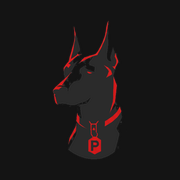
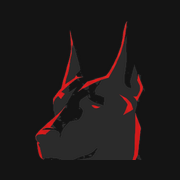
Pies w pasku nawigacyjnym, powrot do czystej strony glownej
- header: kadr glowy psa (pakt-head) + napis; pelna sylwetka jest zbyt waska
  w skali paska, glowa czyta sie poprawnie
- favicon i apple-icon tez z kadru glowy
- stopka bez zmian: pelna sylwetka + napis
- strona glowna wraca do minimalnej wersji, produkty dopiero w kolekcji

diff --git a/app/page.tsx b/app/page.tsx
@@ -1,151 +1,21 @@
-import Image from "next/image";
-import Link from "next/link";
-import { getProducts } from "@/lib/data";
 import { Button } from "@/components/ui/Button";
-import { NetflixRow } from "@/components/collection/NetflixRow";
-import { QuickViewProvider } from "@/components/collection/QuickViewModal";
-import { ReturnIcon, ShieldIcon, TruckIcon } from "@/components/ui/icons";
 
-const CATEGORIES = [
-  {
-    title: "Robocze",
-    copy: "Szerokie taśmy, wzmocnione okucia, miejsce na panel ID.",
-    image: "/placeholder/ranger-duty-collar-1.svg",
-  },
-  {
-    title: "Na co dzień",
-    copy: "Lżejsze konstrukcje na spacery i szkolenie podstawowe.",
-    image: "/placeholder/fjord-everyday-collar-1.svg",
-  },
-  {
-    title: "Pod e-obrożę",
-    copy: "Taśmy przygotowane pod moduły do 45 mm.",
-    image: "/placeholder/bolt-e-fit-collar-1.svg",
-  },
-];
-
-const PROMISES = [
-  {
-    Icon: ShieldIcon,
-    title: "2 lata gwarancji",
-    copy: "Na taśmy, szwy i okucia. Zgłoszenie przez formularz, bez odsyłania do producenta.",
-  },
-  {
-    Icon: TruckIcon,
-    title: "Wysyłka w 24 h",
-    copy: "Zamówienia złożone w dni robocze do 14:00 pakujemy tego samego dnia.",
-  },
-  {
-    Icon: ReturnIcon,
-    title: "60 dni na zwrot",
-    copy: "Obroża nie pasuje na psa? Odsyłasz na nasz koszt i dobieramy rozmiar.",
-  },
-];
-
-export default async function Home() {
-  const products = await getProducts("collars");
-  const bestsellers = products
-    .filter((p) => p.bestsellerRank != null)
-    .sort((a, b) => (a.bestsellerRank ?? 99) - (b.bestsellerRank ?? 99))
-    .slice(0, 10);
-
+// Strona główna celowo minimalna: produkty pokazujemy dopiero w kolekcji.
+export default function Home() {
   return (
-    <QuickViewProvider>
-      <section className="relative -mt-16 h-[78svh] min-h-[520px] max-h-[860px] overflow-hidden lg:-mt-[72px]">
-        {/* Header czyta ten znacznik, żeby startować przezroczysty nad hero */}
-        <span data-hero-sentinel aria-hidden="true" className="absolute top-0 h-px w-px" />
-        <Image
-          src="/placeholder/hero-collars.svg"
-          alt=""
-          fill
-          priority
-          sizes="100vw"
-          className="object-cover"
-        />
-        <div aria-hidden="true" className="pointer-events-none absolute inset-0 scrim-bottom" />
-        <div aria-hidden="true" className="pointer-events-none absolute inset-0 scrim-left" />
-
-        <div className="absolute inset-x-0 bottom-12 md:bottom-20">
-          <div className="mx-auto max-w-[1600px] px-4 md:px-6">
-            <div className="max-w-2xl space-y-5">
-              <p className="text-xs font-semibold uppercase tracking-[0.35em] text-nf-red-bright">
-                Sprzęt dla psów pracujących
-              </p>
-              <h1
-                className="font-display font-black uppercase leading-[0.95] tracking-tight text-white"
-                style={{ fontSize: "clamp(2.5rem, 7vw, 5.5rem)" }}
-              >
-                Obroże, które
-                <br />
-                wracają z terenu
-              </h1>
-              <p className="max-w-xl text-base text-nf-text/90 md:text-lg">
-                Taśmy 1000D, okucia ze stopu cynku, szycie w Polsce. Ten sam sprzęt
-                noszą psy służbowe i psy, które wychodzą na spacer dwa razy dziennie.
-              </p>
-              <div className="flex flex-wrap gap-3 pt-1">
-                <Button size="lg" href="/collections/collars">
-                  Zobacz obroże
-                </Button>
-                <Button size="lg" variant="ghost" href="/collections/collars#top-ten">
-                  Bestsellery
-                </Button>
-              </div>
-            </div>
-          </div>
-        </div>
-      </section>
-
-      <section aria-label="Kategorie" className="mx-auto max-w-[1600px] px-4 py-16 md:px-6 lg:py-20">
-        <div className="grid gap-4 md:grid-cols-3 md:gap-6">
-          {CATEGORIES.map((cat) => (
-            <Link
-              key={cat.title}
-              href="/collections/collars"
-              className="group relative block overflow-hidden rounded-md border border-nf-border bg-nf-elevated"
-            >
-              <div className="relative aspect-[16/10] overflow-hidden">
-                <Image
-                  src={cat.image}
-                  alt=""
-                  fill
-                  sizes="(min-width:768px) 33vw, 100vw"
-                  className="object-cover transition-transform duration-300 ease-nf motion-safe:group-hover:scale-[1.04]"
-                />
-                <div aria-hidden="true" className="absolute inset-0 scrim-bottom" />
-              </div>
-              <div className="absolute inset-x-0 bottom-0 p-5">
-                <h2 className="font-display text-xl font-bold tracking-tight text-white">
-                  {cat.title}
-                </h2>
-                <p className="mt-1 max-w-xs text-sm text-nf-muted">{cat.copy}</p>
-              </div>
-            </Link>
-          ))}
-        </div>
-      </section>
-
-      <NetflixRow
-        id="bestsellery"
-        title="Najczęściej kupowane"
-        products={bestsellers}
-        exploreHref="/collections/collars"
-      />
-
-      <section
-        aria-label="Nasze zasady"
-        className="mx-auto max-w-[1600px] px-4 py-16 md:px-6 lg:py-24"
-      >
-        <div className="grid gap-10 border-t border-nf-border pt-12 md:grid-cols-3 md:gap-8">
-          {PROMISES.map(({ Icon, title, copy }) => (
-            <div key={title} className="space-y-3">
-              <Icon width={24} height={24} className="text-nf-red-bright" />
-              <h2 className="font-display text-lg font-bold tracking-tight text-white">{title}</h2>
-              <p className="max-w-sm text-sm leading-relaxed text-nf-muted">{copy}</p>
-            </div>
-          ))}
-        </div>
-      </section>
-    </QuickViewProvider>
+    <section className="flex min-h-[70svh] flex-col items-center justify-center gap-6 px-6 text-center">
+      <p className="text-xs font-semibold uppercase tracking-[0.35em] text-nf-red-bright">
+        Sprzęt dla psów pracujących
+      </p>
+      <h1 className="font-display text-4xl font-black uppercase leading-none tracking-tight text-white sm:text-6xl">
+        Dla psów,
+        <br />
+        które pracują
+      </h1>
+      <p className="max-w-md text-nf-muted">Kolekcja obroży jest już dostępna.</p>
+      <Button href="/collections/collars" size="lg">
+        Zobacz obroże
+      </Button>
+    </section>
   );
 }

diff --git a/components/layout/Logo.tsx b/components/layout/Logo.tsx
@@ -5,49 +5,58 @@ import { cn } from "@/lib/utils";
 
 // Assety wycinane z brand/logo.png przez scripts/gen-brand.mjs.
 // Wariant "-dark": czarna sylwetka psa podniesiona do grafitu, żeby nie znikała na czerni.
-const MARK = "/brand/pakt-mark.png";
-const MARK_DARK = "/brand/pakt-mark-dark.png";
+const ASSETS = {
+  // pełna sylwetka (głowa + popiersie z zawieszką) - tam, gdzie jest miejsce: stopka
+  mark: { src: "/brand/pakt-mark.png", dark: "/brand/pakt-mark-dark.png", w: 238, h: 445 },
+  // sam kadr głowy - pasek nawigacyjny, gdzie pionowa sylwetka robi się wąskim paskiem
+  head: { src: "/brand/pakt-head.png", dark: "/brand/pakt-head-dark.png", w: 216, h: 270 },
+};
 const WORDMARK = "/brand/pakt-wordmark.png";
 
-type LogoVariant = "wordmark" | "lockup" | "mark";
+type LogoVariant = "header" | "lockup" | "mark" | "wordmark";
 
 interface LogoProps {
   href?: string;
   className?: string;
   /**
-   * "wordmark" - sam napis (header: sygnet w tej skali gubi detal),
-   * "lockup"   - sygnet + napis (stopka, gdzie sygnet może być duży),
-   * "mark"     - sam sygnet.
+   * "header"   - głowa psa + napis (pasek nawigacyjny)
+   * "lockup"   - pełna sylwetka + napis (stopka)
+   * "mark"     - sam sygnet
+   * "wordmark" - sam napis
    */
   variant?: LogoVariant;
   markClassName?: string;
   wordmarkClassName?: string;
-  /** sygnet na czarnym tle (stopka) */
+  /** sygnet na czarnym tle */
   onDark?: boolean;
 }
 
 export function Logo({
   href = "/",
   className,
-  variant = "wordmark",
-  markClassName = "h-16 w-auto",
-  wordmarkClassName = "h-5 w-auto lg:h-6",
-  onDark = false,
+  variant = "header",
+  markClassName,
+  wordmarkClassName = "h-4 w-auto lg:h-5",
+  onDark = true,
 }: LogoProps) {
+  const useHead = variant === "header";
+  const asset = useHead ? ASSETS.head : ASSETS.mark;
+  const markSize = markClassName ?? (useHead ? "h-10 w-auto lg:h-12" : "h-16 w-auto");
+
   return (
     <Link
       href={href}
       aria-label={`${BRAND}, strona główna`}
-      className={cn("flex items-center gap-3", className)}
+      className={cn("flex items-center gap-2.5", className)}
     >
       {variant !== "wordmark" && (
         <Image
-          src={onDark ? MARK_DARK : MARK}
+          src={onDark ? asset.dark : asset.src}
           alt=""
-          width={238}
-          height={445}
+          width={asset.w}
+          height={asset.h}
           priority
-          className={cn("w-auto", markClassName)}
+          className={cn("w-auto", markSize)}
         />
       )}
       {variant !== "mark" && (